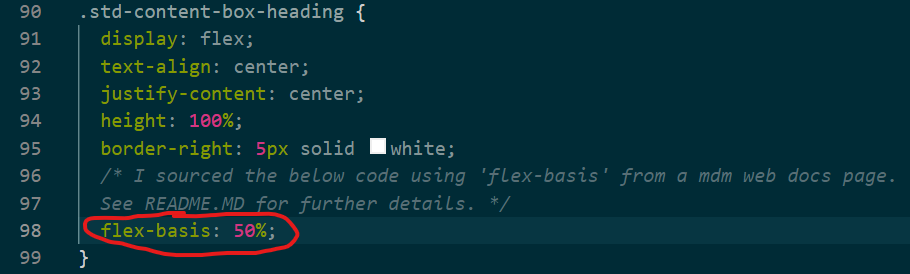
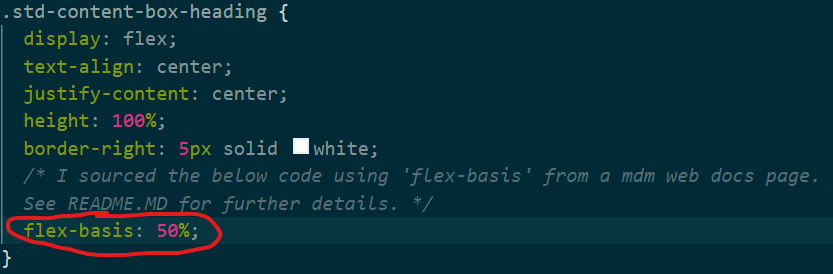
final tweak to readme file to accuratley indicate where external code was used

diff --git a/README.md b/README.md
@@ -56,20 +56,20 @@ Alternatively, you can clone the repository and run the project locally by follo
 
 My codebase uses two CSS flex properties sourced from external locations.
 
-1. The first is the use of 'flex-basis' which can be found on line 98 of my styles.css file:
+1. The first is the use of 'flex-basis' which can be found on line 119 of my styles.css file:
 
-![Screenshot showing use of 'flex-basis' property in styles.css file on line 98.](./assets/images/flex-basis_usage_in_styles_css.png)
+![Screenshot showing use of 'flex-basis' property in styles.css file on line 119.](./assets/images/flex-basis_usage_in_styles_css.png)
 
 The purpose of using 'flex-basis' was to ensure that the '.std-content-box-heading' class filled out more space so the subheading could properly fit on one line. While this isn't essential for my code to work, I prefer the way it makes these sections look from a design perspective.
 
 I sourced this idea for using this flex property from an MDN web documentation page linked here:
 https://developer.mozilla.org/en-US/docs/Web/CSS/flex-basis
 
-2. The second is the use of 'flex-grow' which can be found on line 141 and 170 of my styles.css file:
+2. The second is the use of 'flex-grow' which can be found on line 184 and 219 of my styles.css file:
 
-![Screenshot showing the first use of 'flex-grow' property in styles.css file on line 141.](./assets/images/flex-grow_usage_in_styles.css1.png)
+![Screenshot showing the first use of 'flex-grow' property in styles.css file on line 184.](./assets/images/flex-grow_usage_in_styles.css1.png)
 
-![Screenshot showing the second use of 'flex-grow' property in styles.css file on line 170.](./assets/images/flex-grow_usage_in_styles.css2.png)
+![Screenshot showing the second use of 'flex-grow' property in styles.css file on line 219.](./assets/images/flex-grow_usage_in_styles.css2.png)
 
 The purpose of 'flex-grow' is to expand the image within the parent div container to completely fill the space. By setting the height to '0' in the line above, the 'flex-grow' property then fills the div container completely, even if the viewport size is reduced.
 
